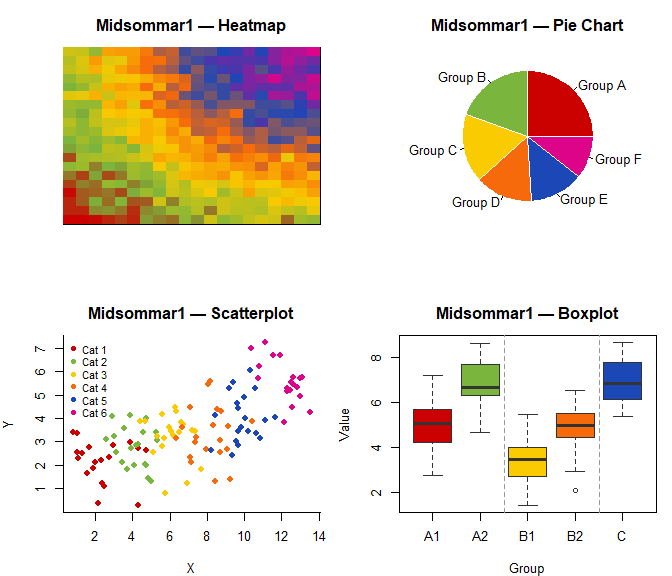
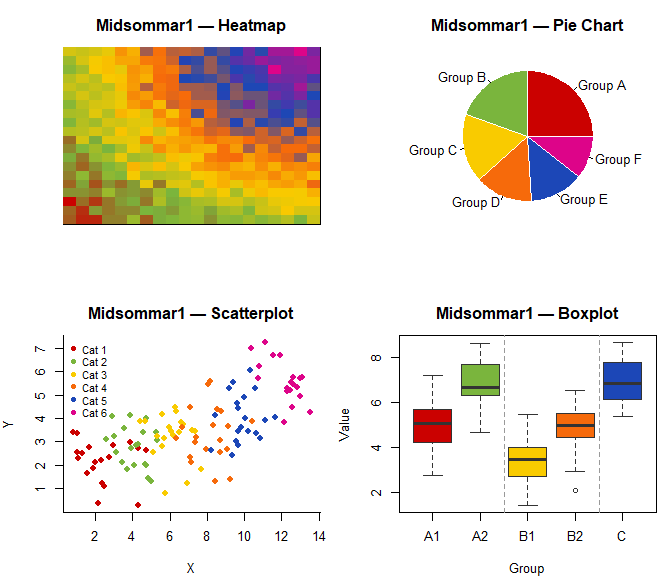
added attribution statement

Changed region(s): [[0.0938, 0.0625, 0.5, 0.4062]]

diff --git a/README.md b/README.md
@@ -6,6 +6,10 @@ Color palettes inspired by the films of Ari Aster. Each palette is drawn
 from the distinct visual language of *Hereditary*, *Midsommar*, *Beau Is
 Afraid*, and *Eddington*.
 
+This package is built upon the structure and framework of the
+[wesanderson](https://github.com/karthik/wesanderson) package (Karthik
+Ram, Hadley Wickham), adapted with original palettes.
+
 ## Installation
 
 ``` r